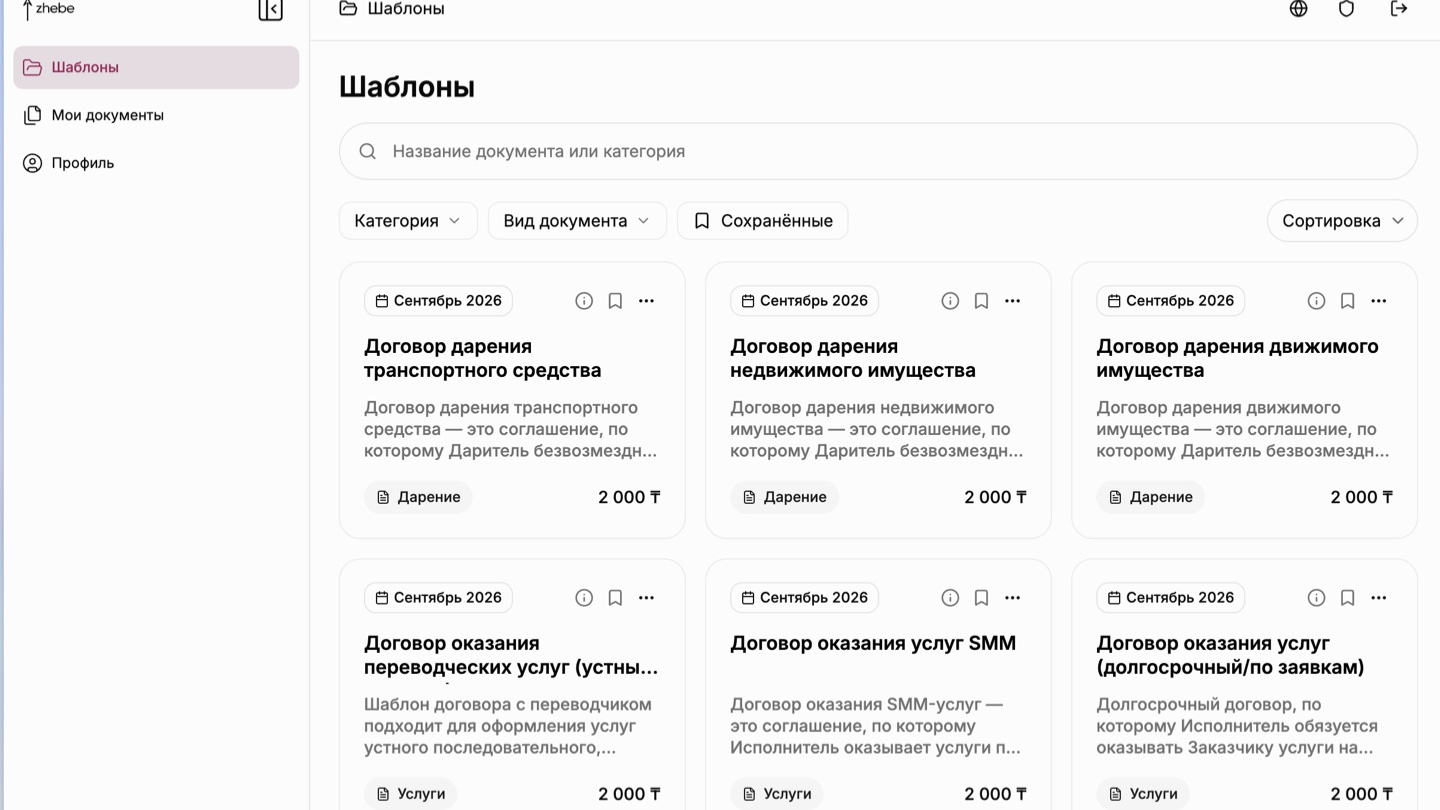
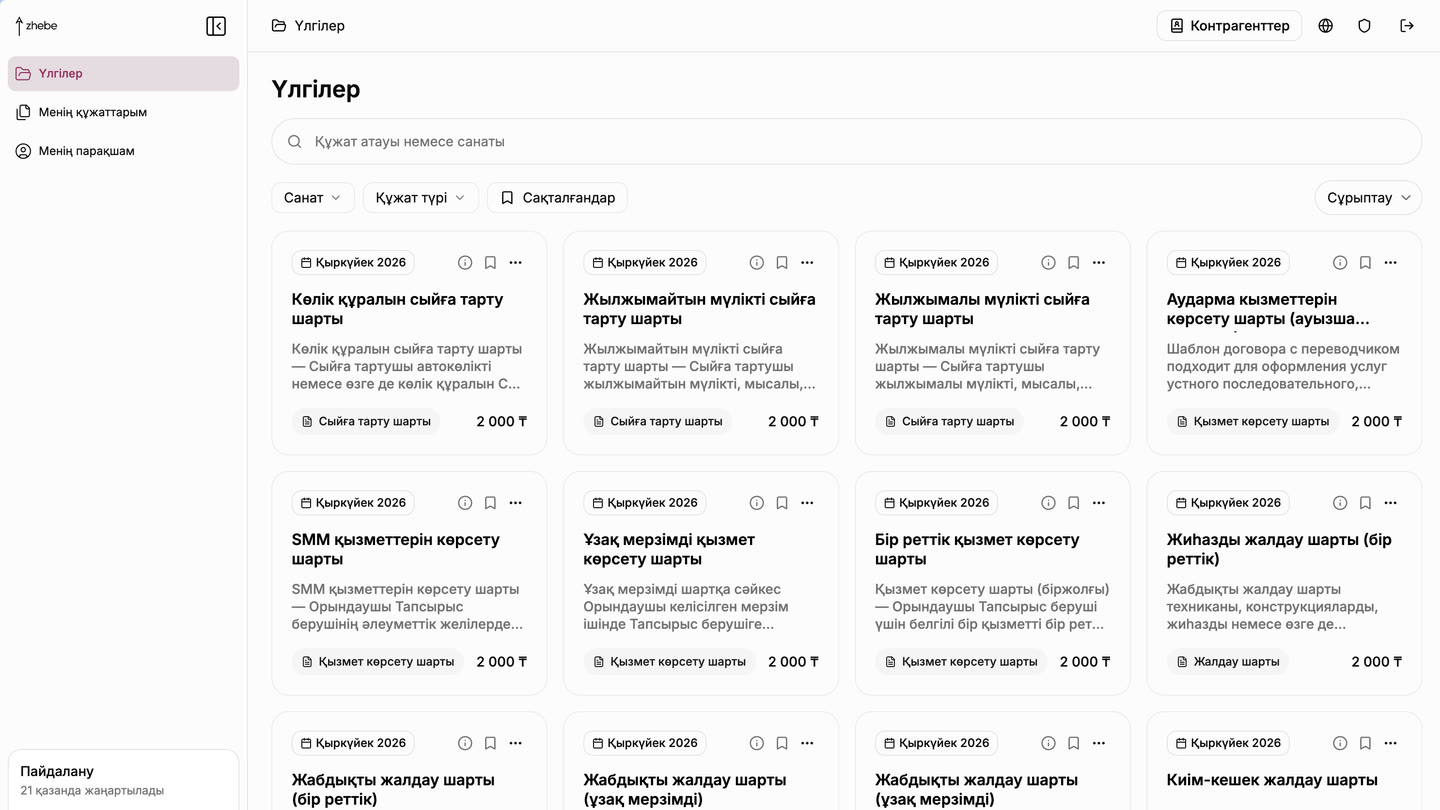
photo and txt updated

diff --git a/apps/web/src/components/about-page.tsx b/apps/web/src/components/about-page.tsx
@@ -595,7 +595,8 @@ const DISCLAIMER_PARAGRAPH_KEYS = [
 ];
 
 function DisclaimerSection() {
-  const { t } = useTranslation();
+  const { t, i18n } = useTranslation();
+  const isKk = i18n.language.startsWith("kk");
   return (
     <section className="py-16 lg:py-[144px]">
       <div className="mx-auto flex max-w-[864px] flex-col px-4 sm:px-8">
@@ -609,7 +610,11 @@ function DisclaimerSection() {
               alt={t("about.disclaimer.screenshotAlt")}
               className="block h-auto w-full"
               height={810}
-              src="/landing/step-catalog.jpg"
+              src={
+                isKk
+                  ? "/landing/step-catalog-kk.jpg"
+                  : "/landing/step-catalog.jpg"
+              }
               width={1440}
             />
           </div>

diff --git a/apps/web/src/components/landing-page.tsx b/apps/web/src/components/landing-page.tsx
@@ -353,14 +353,14 @@ const STEPS: Step[] = [
   },
   {
     n: 2,
-    image: "/landing/step-builder.jpg",
-    imageKk: "/landing/step-builder-kk.jpg",
+    image: "/landing/step-fill.jpg",
+    imageKk: "/landing/step-fill-kk.jpg",
     offset: { left: "-31%", top: "-35%" },
   },
   {
     n: 3,
-    image: "/landing/step-builder.jpg",
-    imageKk: "/landing/step-builder-kk.jpg",
+    image: "/landing/step-download.jpg",
+    imageKk: "/landing/step-download-kk.jpg",
     offset: { left: "-33%", top: "10%" },
   },
 ];
